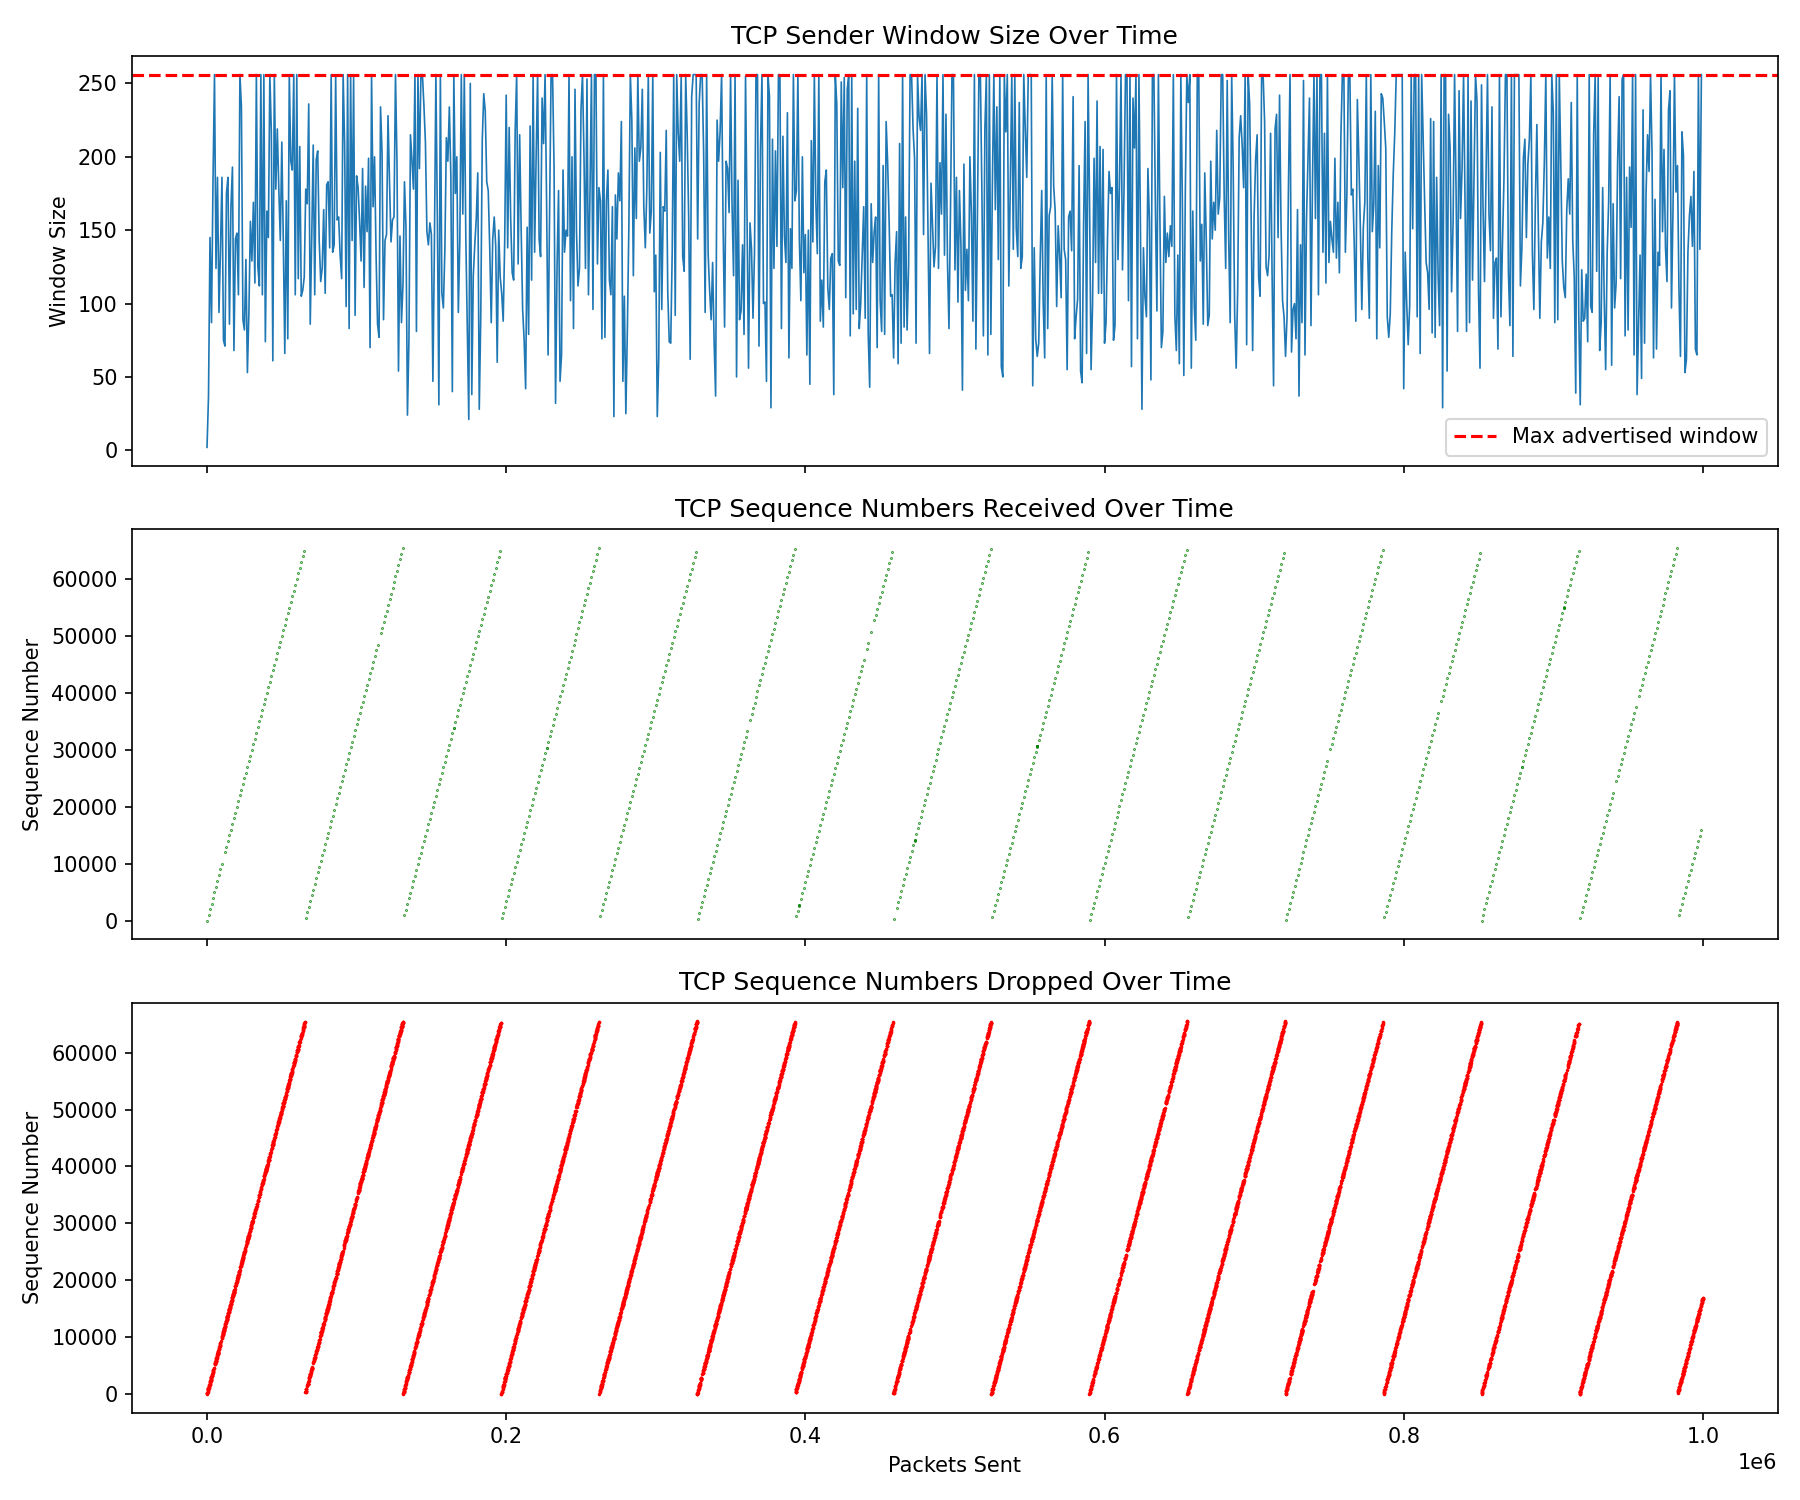
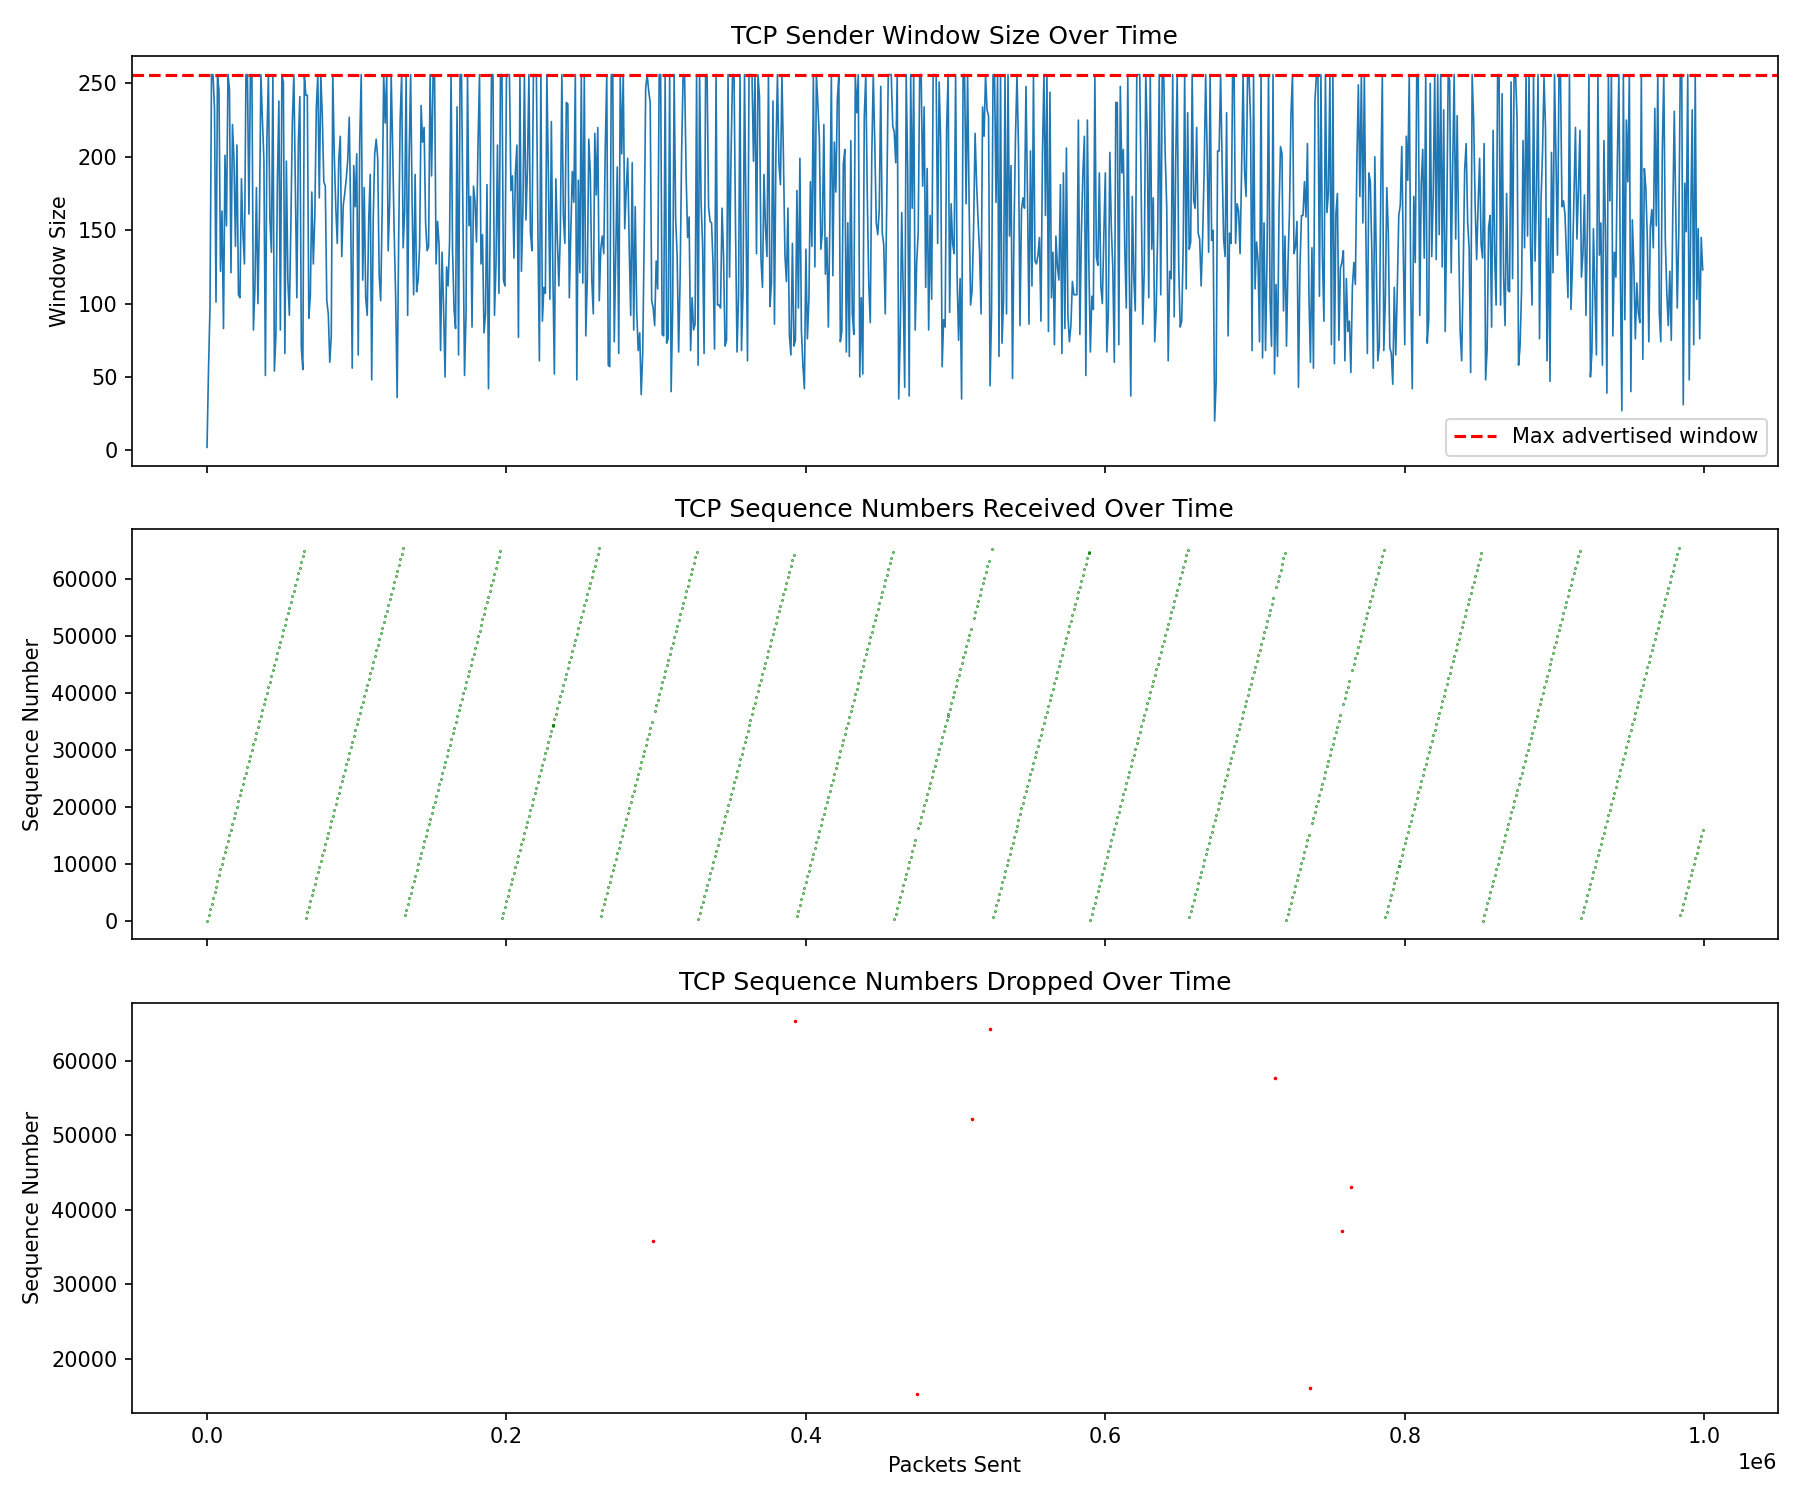
added code for tracking retransmissions

Changed region(s): [[0.0933, 0.0307, 0.9644, 0.276], [0.0311, 0.6747, 0.0622, 0.8587], [0.0311, 0.8893, 0.0622, 0.92]]

diff --git a/client.py b/client.py
@@ -69,6 +69,12 @@ with socket.socket(socket.AF_INET, socket.SOCK_STREAM) as s:
     seq_dropped_times = []
     seq_dropped_nums = []
 
+    # for tracking total packets sent
+    num_retransmissions = 0
+
+    # for table at the end of the doc
+    retransmission_counts = {}
+
     while packets_sent < NUM_PACKETS:
         
         # check for packets that got dropped and retransmit every 100 packets
@@ -76,6 +82,9 @@ with socket.socket(socket.AF_INET, socket.SOCK_STREAM) as s:
             successfully_resent_indices = []
             # tries to retransmit with a 1% failure rate
             for index, seq_num in enumerate(dropped_sequence_numbers):
+                # increment the retransmission count
+                num_retransmissions += 1
+                retransmission_counts[seq_num] += 1
                 if send_packet(s, seq_num):
                     successfully_resent_indices.append(index)
                     if packets_sent % 1000 == 0:
@@ -120,6 +129,8 @@ with socket.socket(socket.AF_INET, socket.SOCK_STREAM) as s:
             else:
                 if current_sequence_number not in dropped_sequence_numbers:
                     dropped_sequence_numbers.append(current_sequence_number)
+                # if seq num hasn't been dropped yet, set to 0
+                retransmission_counts.setdefault(current_sequence_number, 0)
                 # window size halves upon failure
                 window_threshold = max(1, window_size // 2)
                 window_size = window_threshold
@@ -142,3 +153,13 @@ with socket.socket(socket.AF_INET, socket.SOCK_STREAM) as s:
     
     # plotting data stored once every 1000 packets sent
     plot_data(time_axis, sender_window_over_time_axis, seq_received_times, seq_received_nums, seq_dropped_times, seq_dropped_nums)
+    
+    # retransmission table
+    retransmission_tally = {}
+    for count in retransmission_counts.values():
+        retransmission_tally[count] = retransmission_tally.get(count, 0) + 1
+
+    for n in sorted(retransmission_tally):
+        print(f"{n} retransmissions: {retransmission_tally[n]} packets")
+    
+    print(f"Total packets sent: {packets_sent + num_retransmissions}")
